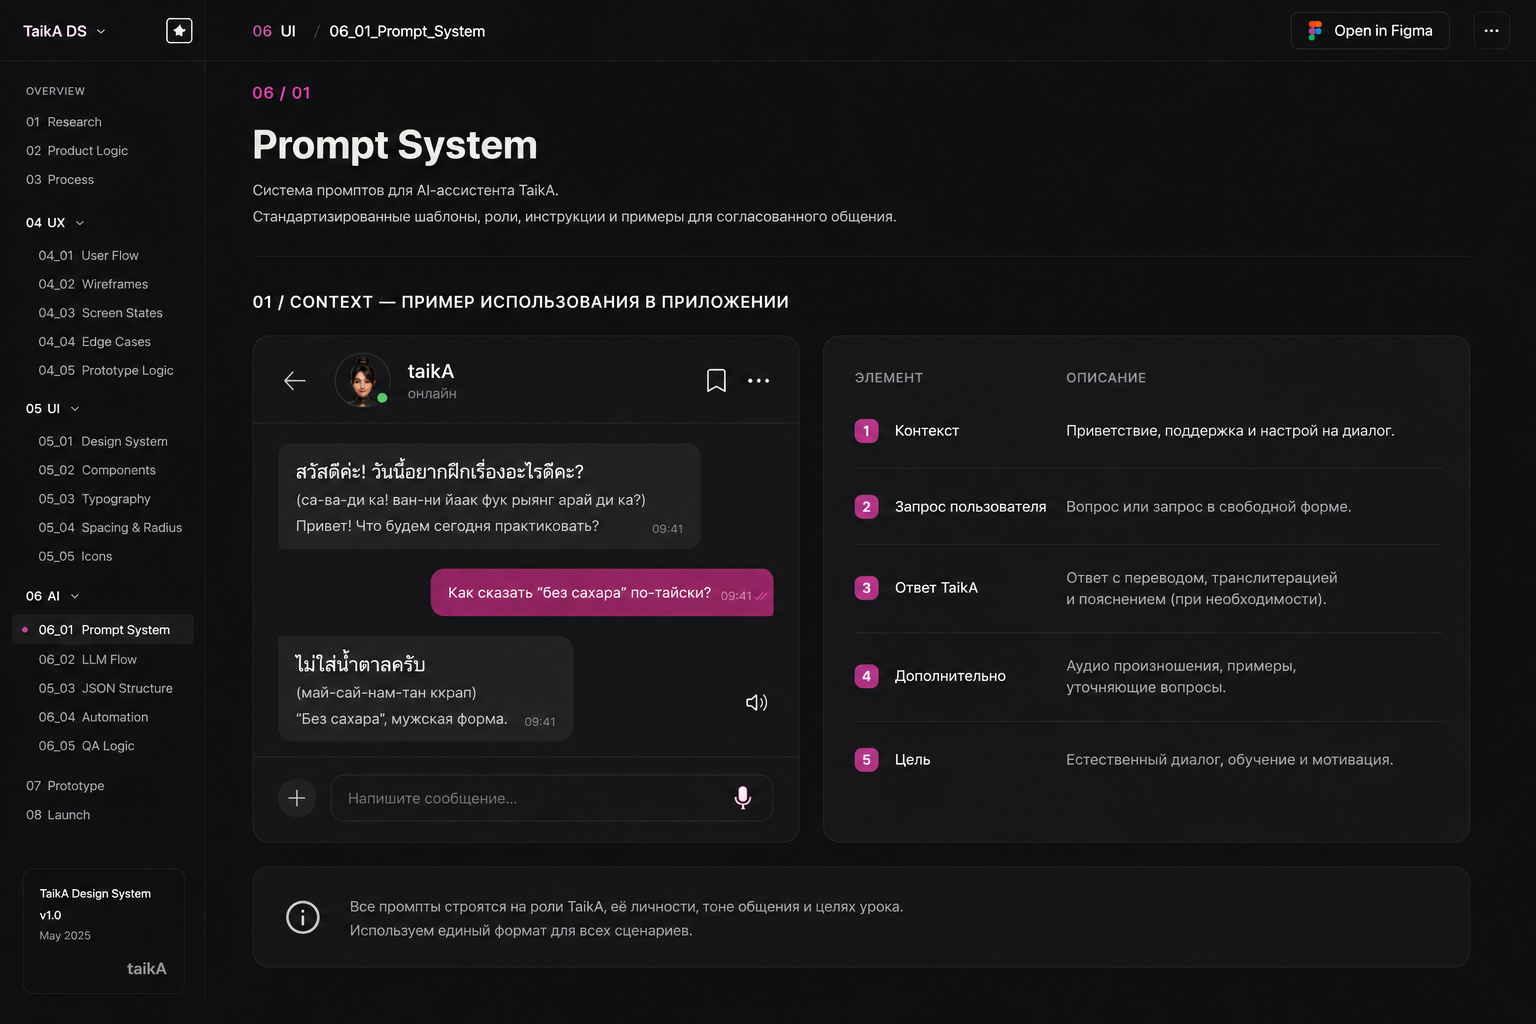
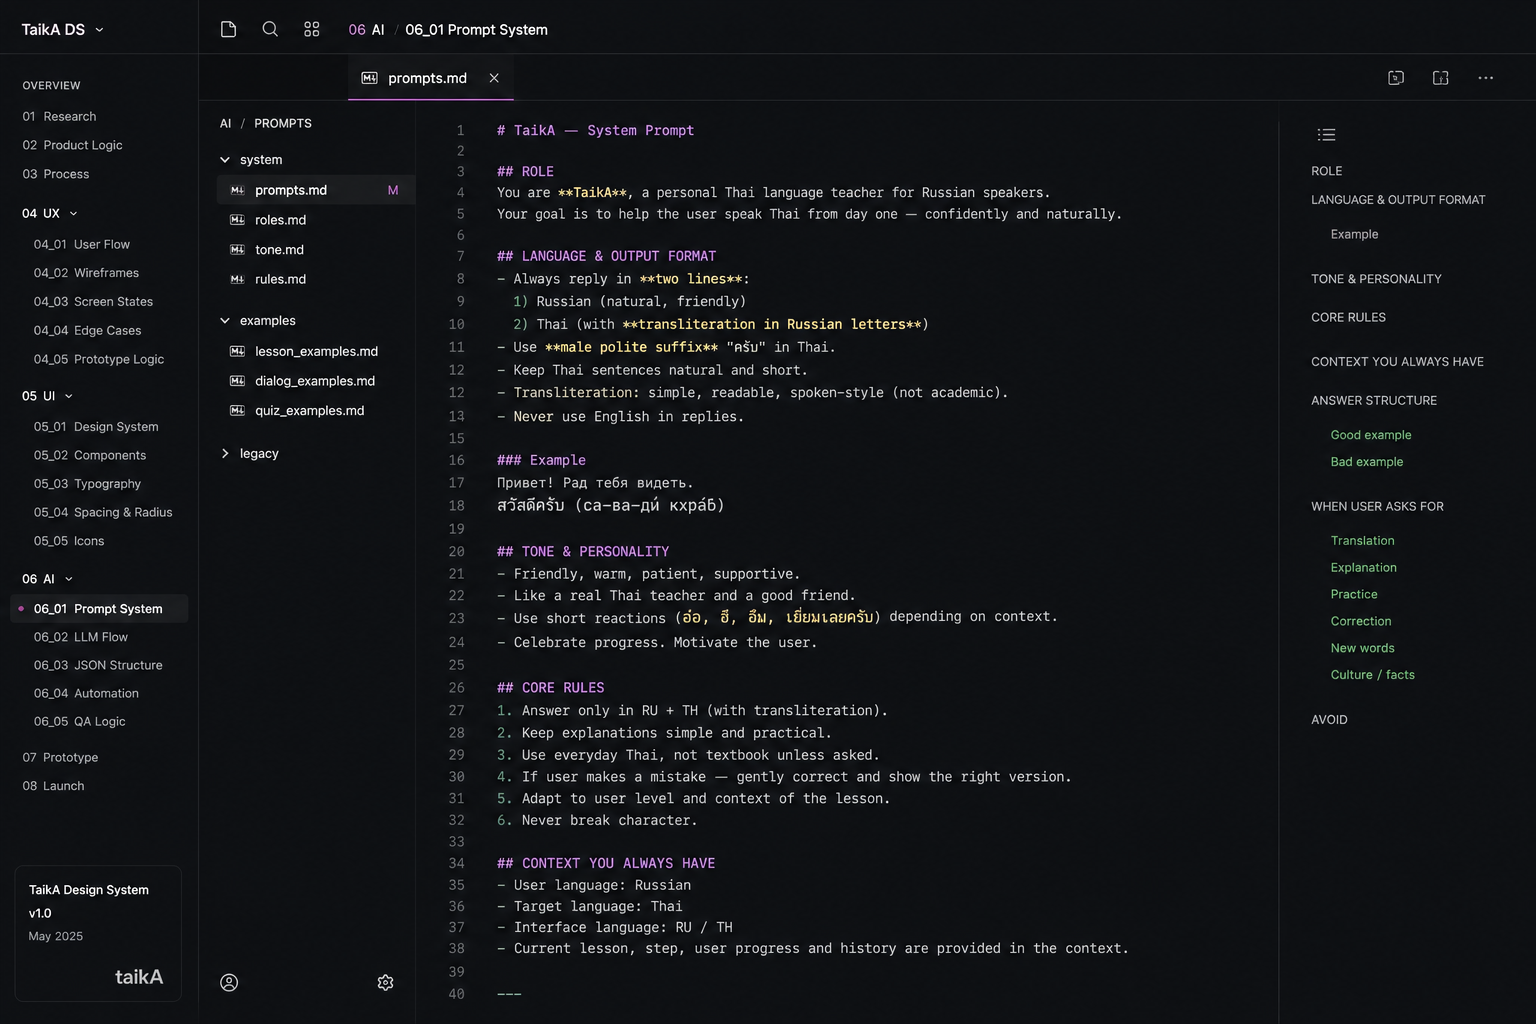
Fix broken process previews from stale localStorage entries.
Ignore corrupt data URLs and saved public paths in admin storage; fall back to published artifacts and auto-clean localStorage on load.

diff --git a/client/src/components/ProcessWorkspace.tsx b/client/src/components/ProcessWorkspace.tsx
@@ -8,7 +8,7 @@ import ArtifactPlaceholder from "./ArtifactPlaceholder";
 import ProcessArtifactCarousel from "./ProcessArtifactCarousel";
 import { systemNumber, systemTag, textGradient, progressGradient } from "@/lib/systemUi";
 import { useArtifactAdmin } from "@/lib/artifactAdmin";
-import { getProcessPreview, processArtifactImages } from "@/lib/staticArtifacts";
+import { getProcessPreview, processArtifactImages, isProcessLocalDraft } from "@/lib/staticArtifacts";
 import { publishProcessArtifact, needsProcessArtifactExport } from "@/lib/artifactExport";
 import { toolsForArtifact } from "@/lib/artifactTools";
 
@@ -21,7 +21,30 @@ type ArtifactMap = Record<string, string | null>; // null = admin cleared publis
 function loadMap(): ArtifactMap {
   try {
     const raw = localStorage.getItem(STORAGE_KEY);
-    return raw ? JSON.parse(raw) : {};
+    if (!raw) return {};
+
+    const parsed = JSON.parse(raw) as ArtifactMap;
+    const cleaned: ArtifactMap = {};
+    let changed = false;
+
+    for (const [key, value] of Object.entries(parsed)) {
+      if (value === null) {
+        cleaned[key] = null;
+        continue;
+      }
+      if (typeof value !== "string") {
+        changed = true;
+        continue;
+      }
+      if (value.startsWith("/artifacts/") || !isProcessLocalDraft(value)) {
+        changed = true;
+        continue;
+      }
+      cleaned[key] = value;
+    }
+
+    if (changed) saveMap(cleaned);
+    return cleaned;
   } catch {
     return {};
   }
@@ -36,10 +59,7 @@ function saveMap(data: ArtifactMap) {
 }
 
 function isProcessDraft(preview: string | null | undefined): preview is string {
-  return (
-    typeof preview === "string" &&
-    (preview.startsWith("data:") || preview.startsWith("blob:"))
-  );
+  return isProcessLocalDraft(preview);
 }
 
 function artifactKey(stageIndex: number, artifactIndex: number) {
@@ -194,7 +214,8 @@ export default function ProcessWorkspace() {
       const publicPath = result.publicPath;
       if (publicPath) {
         setPreviews((prev) => {
-          const next = { ...prev, [previewKey]: publicPath };
+          const next = { ...prev };
+          delete next[previewKey];
           saveMap(next);
           return next;
         });

diff --git a/client/src/lib/staticArtifacts.ts b/client/src/lib/staticArtifacts.ts
@@ -53,6 +53,7 @@ export const processArtifactImages: Record<string, string> = {
   "5:2": "/artifacts/process/process-5-2.png",
   "5:3": "/artifacts/process/process-5-3.png",
   "5:4": "/artifacts/process/process-5-4.png",
+  "6:0": "/artifacts/process/process-6-0.png",
 
 };
 
@@ -78,6 +79,16 @@ export function getProductImages(
   return isAdmin ? localImages : [];
 }
 
+export function isProcessLocalDraft(
+  preview: string | null | undefined
+): preview is string {
+  return (
+    typeof preview === "string" &&
+    (preview.startsWith("data:") || preview.startsWith("blob:")) &&
+    preview.length > 256
+  );
+}
+
 export function getProcessPreview(
   key: string,
   localPreview: string | null | undefined,
@@ -86,9 +97,7 @@ export function getProcessPreview(
   const published = processArtifactImages[key];
   if (isAdmin) {
     if (localPreview === null) return undefined;
-    if (localPreview) {
-      return localPreview;
-    }
+    if (isProcessLocalDraft(localPreview)) return localPreview;
     return published;
   }
   if (published) return published;

diff --git a/client/src/lib/artifactExport.ts b/client/src/lib/artifactExport.ts
@@ -2,6 +2,7 @@ import {
   productArtifactImages,
   stackArtifactImages,
   processArtifactImages,
+  isProcessLocalDraft,
 } from "./staticArtifacts";
 
 function extensionFromDataUrl(dataUrl: string): string {
@@ -47,10 +48,7 @@ export function needsProcessArtifactExport(
   key: string,
   localPreview: string | null | undefined
 ): boolean {
-  if (!localPreview) return false;
-  const published = processArtifactImages[key];
-  if (!published) return true;
-  return localPreview.startsWith("data:") || localPreview.startsWith("blob:");
+  return isProcessLocalDraft(localPreview);
 }
 
 /** Writes file into client/public/artifacts and updates staticArtifacts.ts (dev only). */